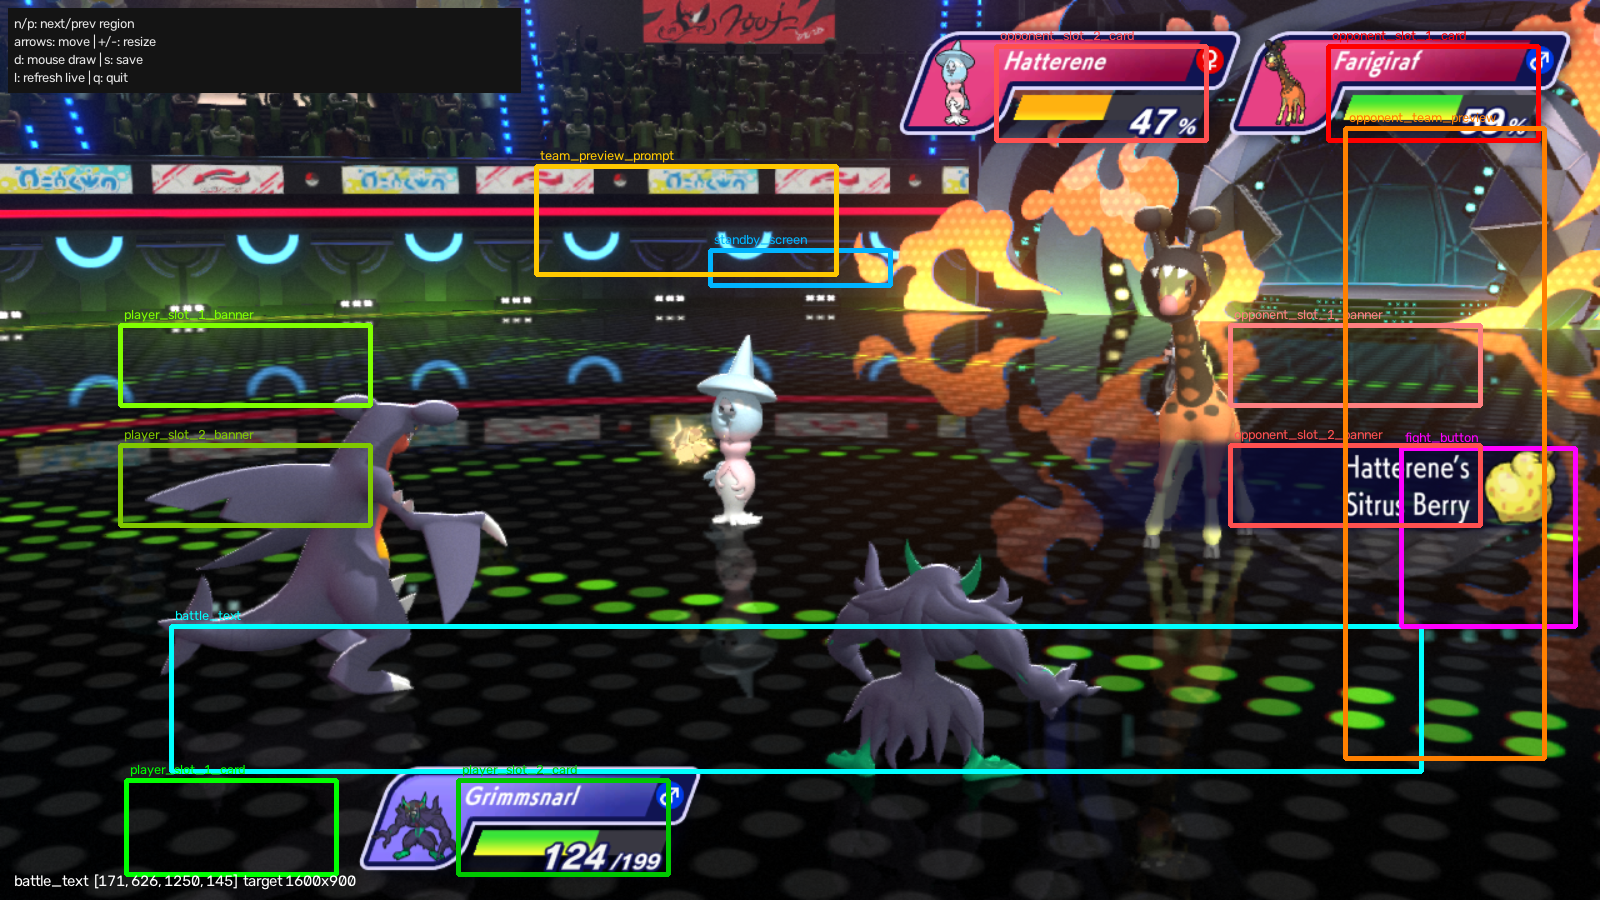
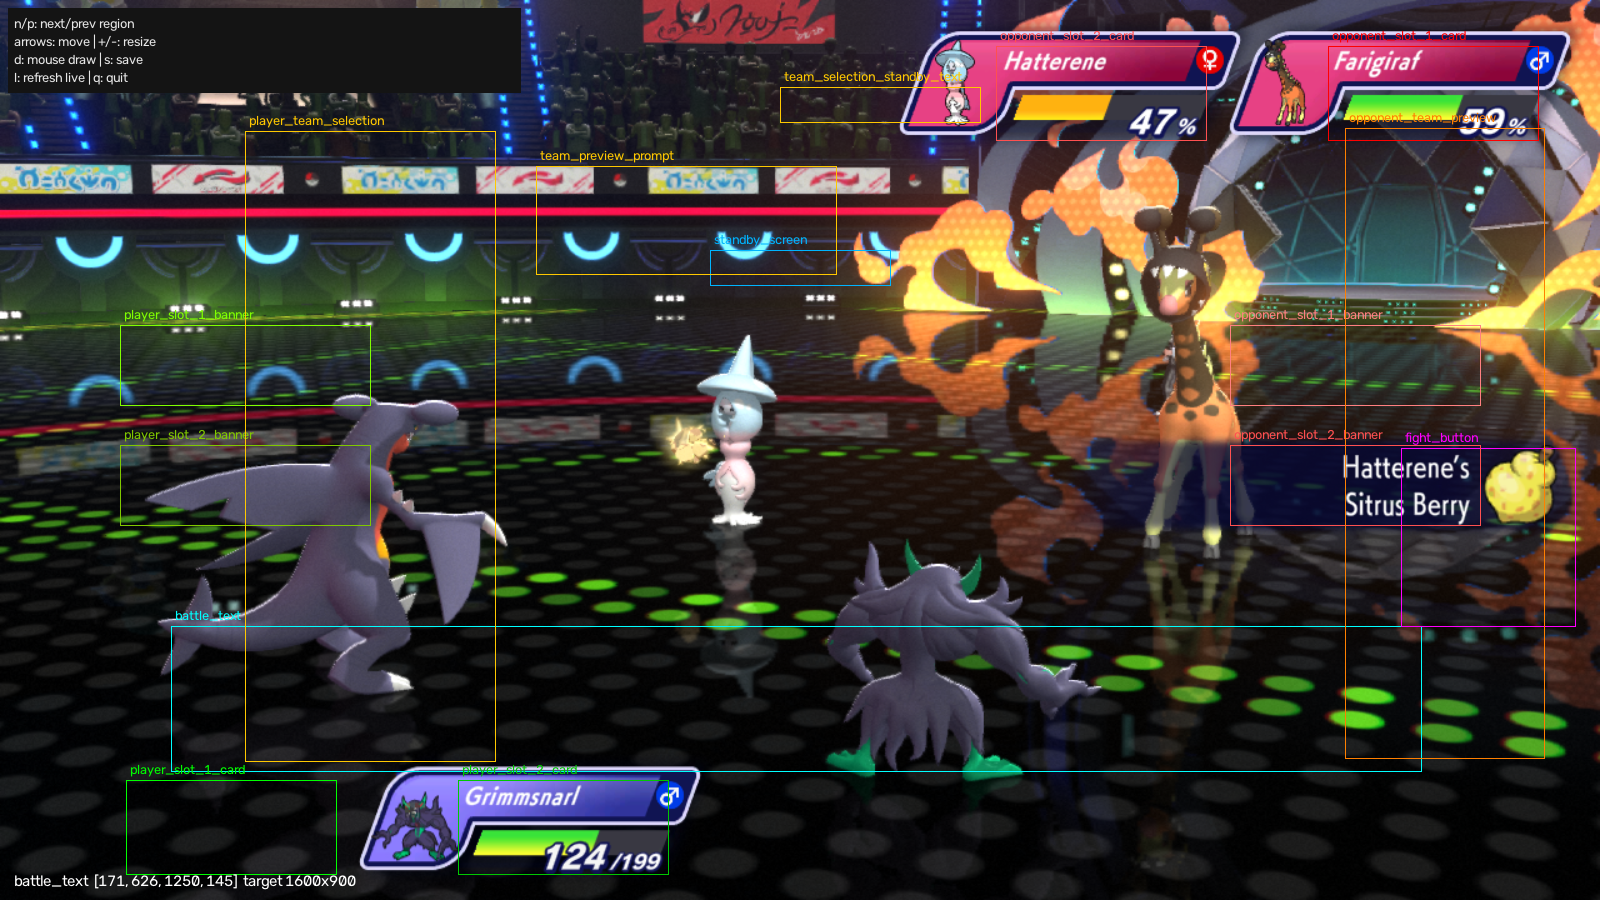
add team selection standby CV regions

diff --git a/backend/app/cv/calibrate.py b/backend/app/cv/calibrate.py
@@ -43,6 +43,8 @@ from app.cv.regions import (
 
 REGION_COLORS: dict[str, tuple[int, int, int]] = {
     "team_preview_prompt": (0, 200, 255),
+    "team_selection_standby_text": (0, 200, 255),
+    "player_team_selection": (0, 200, 255),
     "opponent_team_preview": (0, 128, 255),
     "fight_button": (255, 0, 255),
     "player_slot_1_card": (0, 255, 0),
@@ -106,7 +108,7 @@ def _draw_overlay(
     for name in config.names():
         x, y, w, h = config.get(name)
         color = _region_color(name)
-        thickness = 3
+        thickness = 1
         cv2.rectangle(canvas, (x, y), (x + w, y + h), color, thickness)
         if show_labels:
             label = name
